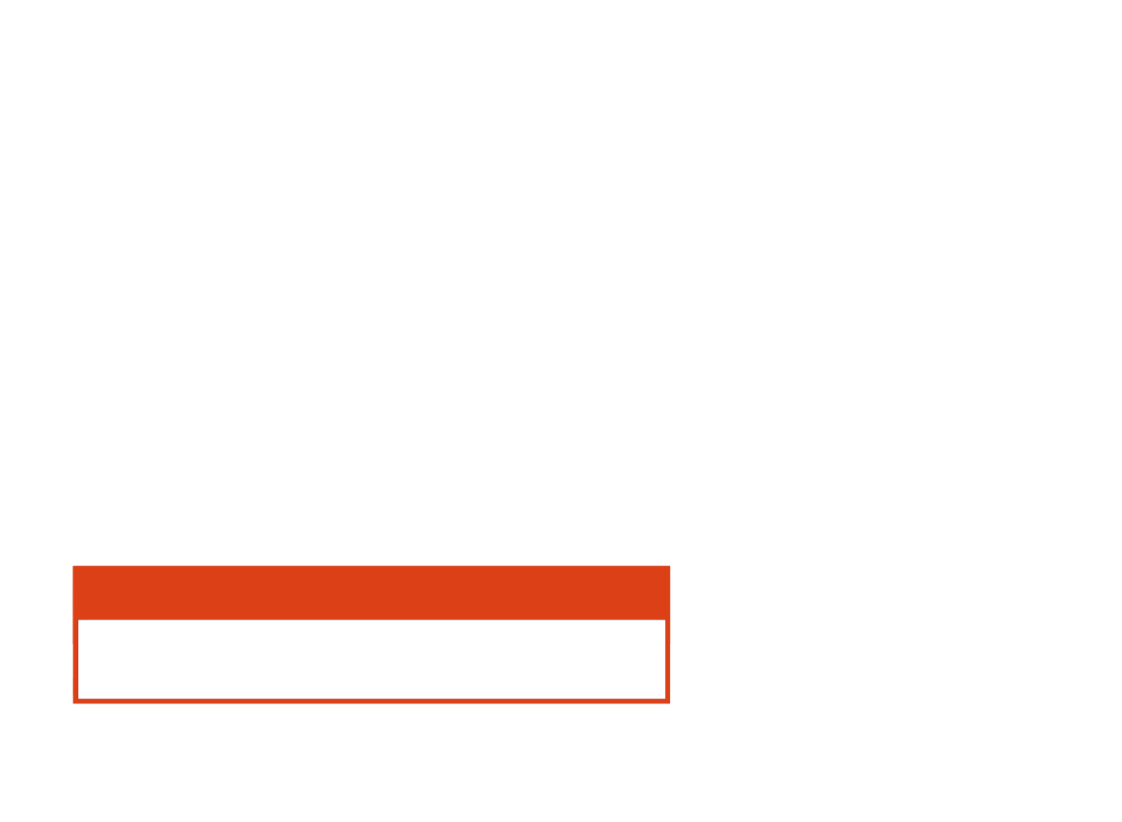
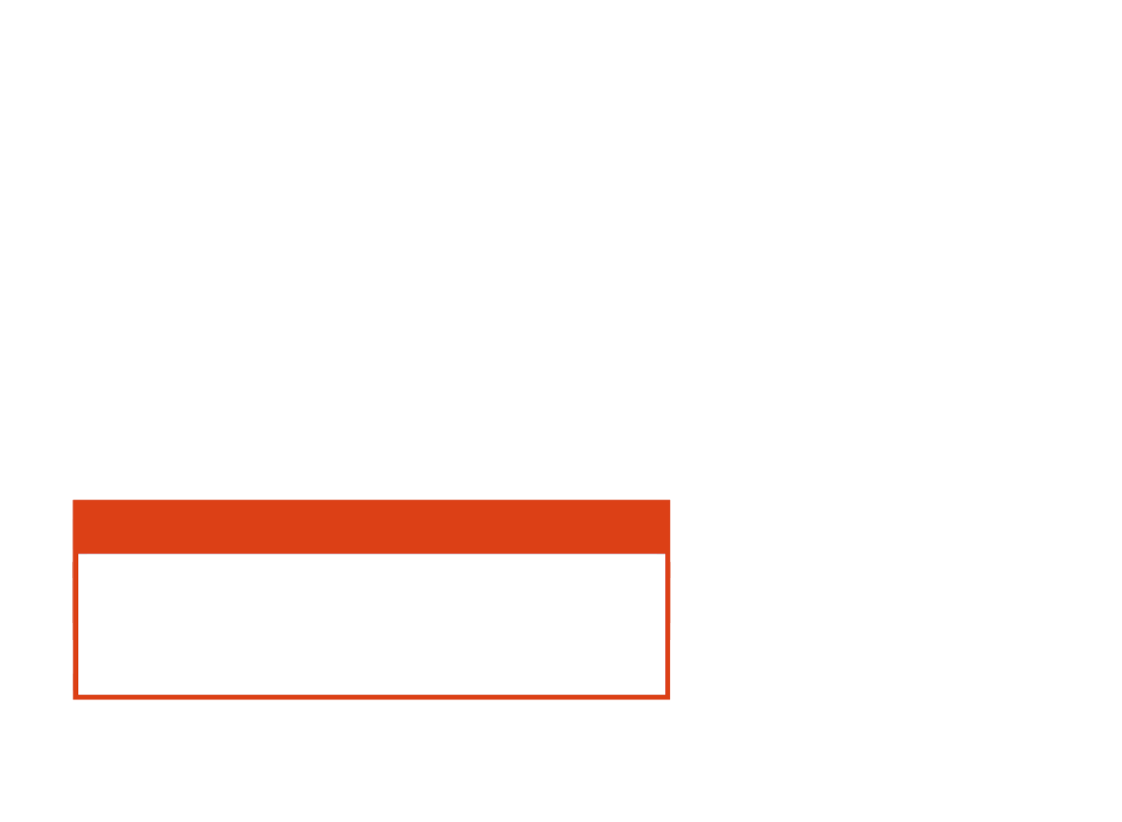
Minor update to new edition

Changed region(s): [[0.0624, 0.6083, 0.6239, 0.7603], [0.0624, 0.8212, 0.5927, 0.882]]

diff --git a/assets/js/card.js b/assets/js/card.js
@@ -187,7 +187,7 @@ drawFooter = function (value) {
 drawWeapons = function(fighterData){
 
     xValue = fighterData.weaponOffsetX;
-    yValue = fighterData.weaponOffsetY;
+    yValue = fighterData.weaponOffsetY -75;
 
     getContext().drawImage(document.getElementById('frame_2a'), xValue + 0, yValue + 10, getCanvas().width, getCanvas().height);
     
@@ -230,8 +230,8 @@ drawWeapons = function(fighterData){
     // Weapon stats header
     getContext().fillStyle = 'black';
     getContext().font = '60px compacta-std';
-    textValue = "A    BS/WS    D";
-    writeValue(getContext(), textValue, { x: xValue + 400, y: yValue + 340 });
+    textValue = "ATK    HIT     DMG";
+    writeValue(getContext(), textValue, { x: xValue + 390, y: yValue + 340 });
     
     // Weapon Numbers
     getContext().font = 'bold 36px franklin-gothic-book';
@@ -275,7 +275,7 @@ drawCardText = function (value) {
     text_array = (splitWordWrap(getContext(), value, fitWidth));
 
     for (line in text_array) {       
-        getContext().fillText(text_array[line], 90, 650 + (line * lineHeight));
+        getContext().fillText(text_array[line], 90, 590 + (line * lineHeight));
     }
 
     
@@ -506,7 +506,7 @@ function drawAbilities(fighterData){
     getContext().font = 'bold 36px franklin-gothic-book';
     getContext().fillStyle = 'Black';
     textValue = "Abilities: ";
-    writeScaled(textValue, { x: 90, y: 604 });
+    writeScaled(textValue, { x: 90, y: 540 });
     drawCardText(fighterData.cardText);
 
 
@@ -660,18 +660,10 @@ function drawPentagon(x, y, size) {
 function drawStatsFrame(fighterData){
     getContext().drawImage(document.getElementById('frame_1'), 0, 13, getCanvas().width, getCanvas().height);
     // MA
-    drawNumber("M:" + fighterData.ma + "\"", 90, 170+13, false);
-    //getContext().drawImage(document.getElementById('range_circle'), 170, 135+13, 70, 70);
-    // ST
-    drawNumber("APL:" + fighterData.st, 210, 170+13, false);
-    // AG
-    drawNumber(" GA:" + fighterData.ag, 340, 170+13, true);
-    // PA
-    drawNumber(" DF:" + fighterData.pa, 80, 250+13, true);
-    //AV
-    drawNumber("SV:" + fighterData.av + "+", 210, 250+13, true);
-    // MADE UP ONE
-    drawNumber("W:" + fighterData.wounds, 350, 250+13, true);
+    drawNumber("APL:" + fighterData.st, 100, 170+13, false);
+    drawNumber("M:" + fighterData.ma + "\"", 100 +150, 170+13, false);
+    drawNumber("SV:" + fighterData.av + "+", 100 +150 *2, 170+13, true);
+    drawNumber("W:" + fighterData.wounds, 100 +150*3, 170+13, true);
 }
 
 drawFrames = function (fighterData) {

diff --git a/_includes/tabs/tabContentCard.html b/_includes/tabs/tabContentCard.html
@@ -5,7 +5,7 @@
         <img id="bg1" style="display: none;" src="assets/img/card/kt_background.png">
         <img id="frame_4" style="display: none;" src="assets/img/card/kt_frame_4.png">
         <img id="frame_4b" style="display: none;" src="assets/img/card/kt_frame_4b.png">
-        <img id="frame_1" style="display: none;" src="assets/img/card/kt_frame_1.png">
+        <img id="frame_1" style="display: none;" src="assets/img/card/kt_frame_1_updated.png">
         <img id="frame_2a" style="display: none;" src="assets/img/card/kt_frame_2a.png">
         <img id="frame_2b" style="display: none;" src="assets/img/card/kt_frame_2b.png">
         <img id="frame_3" style="display: none;" src="assets/img/card/kt_frame_3.png">
